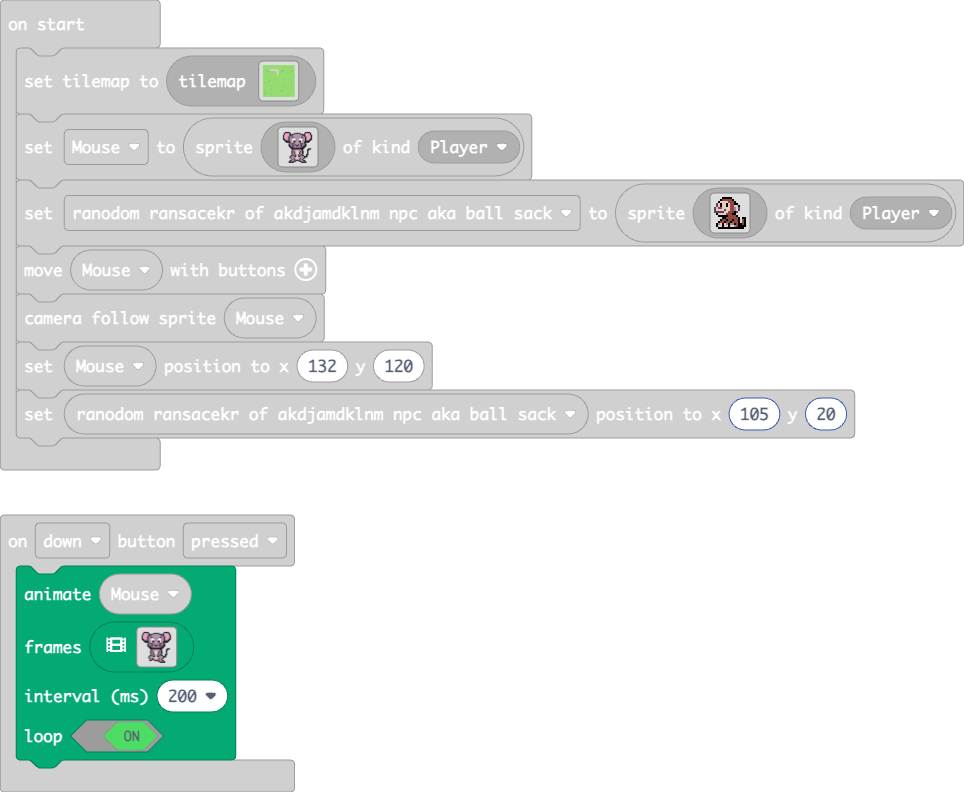
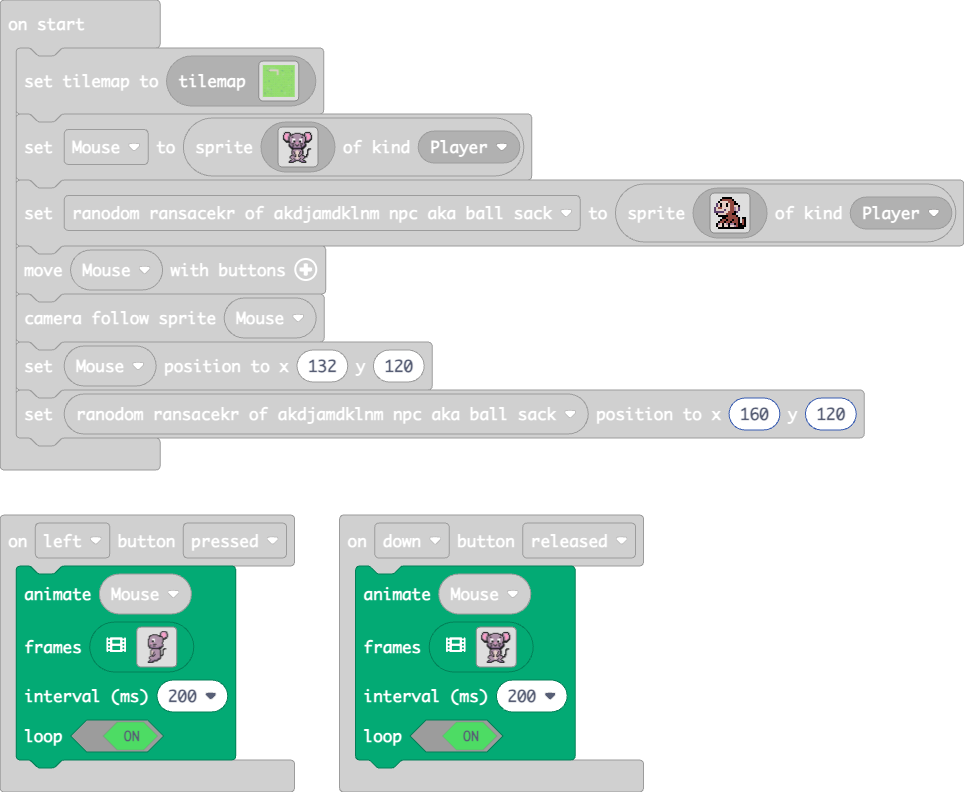
Update pxt.json, main.blocks, main.ts

diff --git a/main.ts b/main.ts
@@ -163,16 +163,16 @@ controller.down.onEvent(ControllerButtonEvent.Released, function () {
         .......fcbbbbbfbbfbbbbbcf.......
         .......ffcbffbbffbbffbcff.......
         ........ffccbbbbbbbbccff........
-        ..fff....fffcccccccccff.........
-        ....ff....ffffffffffff.....fff..
-        .....f.....fbbbbbbbbf.....ff....
-        .....f....fbbbbddbbbbf....f.....
-        .....f....fbfbddddbfbf....f.....
-        .....f....fbbfddddfbbf....f.....
-        .....f....fbbfddddfbbf....f.....
-        .....ff....fbbfddfbbf....ff.....
-        ......f..ffbfbfddfbfbff..f......
-        ......fffbbbbffddffbbbbfff......
+        .........fffcccccccccff.........
+        ..........ffffffffffff.....fff..
+        ...........fbbbbbbbbf.....ff....
+        ..........fbbbbddbbbbf....f.....
+        ..........fbfbddddbfbf....f.....
+        ..........fbbfddddfbbf....f.....
+        ..........fbbfddddfbbf....f.....
+        ...........fbbfddfbbf....ff.....
+        .........ffbfbfddfbfbff..f......
+        ........fbbbbffddffbbbbfff......
         ........fbbbbbddddbbbbbf........
         .........fbbbbbddbbfbbf.........
         ..........fbbbbbbbfbbf..........
@@ -204,24 +204,24 @@ controller.left.onEvent(ControllerButtonEvent.Pressed, function () {
         ......fbbbbbbbbbbbbbbbf.........
         ......fbb33bbbbbbbbbbbf.........
         ......fbbbbbffffbbbbbbbf........
-        ......fbbfbbbbbbbbbbbbbf........
-        ......fffbbbfffbbbbbbbff........
-        .......fbbbbbbbbbbbbbff.........
-        .......fffbbbbbbbbbfff..........
+        ......fbbfbbbbbbbbbbbbbc........
+        ......fffbbbfffbbbbbbcff........
+        .......fccbbbbbbbbbccff.........
+        .......fffcccccccccfff..........
         ..........fffffffffff...fff.....
         ..........fbbbbbbbbf...ff.......
         .........fbbbbbbbbbbf..f........
         .........fddbbbbbbbbf..f........
         .........fddbfbbbbbbf..f........
         .........fddfbbbbbbbf..f........
-        .........fddfbbbbbbbf..f........
-        .........fdfbbfbbbbbf.ff........
-        ..........ffbfbbbbbbfff.........
+        .........fddfbcbbbbbf..f........
+        .........fdfbcfbbbbbf.ff........
+        ..........ffcfbbbbbbfff.........
         ........ffbffbbbbbbbf...........
         .......fbbbbbbbbbbbbf...........
-        .......fbbbbbbbbbbbbf...........
-        ........fbbbbbbbbbff............
-        .........fbbbbbbbf..............
+        .......fbbbbbbbbbbccf...........
+        ........fbbbbbbbbcff............
+        .........fbbbccccf..............
         .......ffbbccffff...............
         ......fccccff...................
         ......ffffff....................
@@ -241,24 +241,24 @@ controller.left.onEvent(ControllerButtonEvent.Pressed, function () {
         .......fbbbbbbbbbbbbbbbf........
         .......fbb33bbbbbbbbbbbf........
         .......fbbbbbffffbbbbbbbf.......
-        .......fbbfbbbbbbbbbbbbbf.......
-        .......fffbbbfffbbbbbbbff.......
-        ........fbbbbbbbbbbbbbff........
-        ........fffbbbbbbbbbfff.........
+        .......fbbfbbbbbbbbbbbbcf.......
+        .......fffbbbfffbbbbbbcff.......
+        ........fccbbbbbbbbbccff........
+        ........fffcccccccccfff.........
         ...........fffffffffff...fff....
         ...........fbbbbbbbbf...ff......
         ..........fbbbbbbbbbbf..f.......
         ..........fddbbbbbbbbf..f.......
         ..........fddbfbbbbbbf..f.......
         ..........fddfbbbbbbbf..f.......
-        ..........fddfbbbbbbbf..f.......
-        ..........fdfbbfbbbbbf.ff.......
-        ...........ffbfbbbbbbfff........
+        ..........fddfbcbbbbbf..f.......
+        ..........fdfbcfbbbbbf.ff.......
+        ...........ffcfbbbbbbfff........
         .........ffbffbbbbbbbf..........
         ........fbbbbbbbbbbbbf..........
-        ........fbbbbbbbbbbbbf..........
+        ........fbbbbbbbbbbccf..........
         .........fbbbbbbbbbff...........
-        ..........fbbbbbbbbbf...........
+        ..........fbbbccccbbf...........
         ........ffbbccffffbbff..........
         .......fccccff....fbbcf.........
         .......ffffff......fbcf.........
@@ -840,4 +840,4 @@ let ranodom_ransacekr_of_akdjamdklnm_npc_aka_ball_sack = sprites.create(img`
 controller.moveSprite(Mouse)
 scene.cameraFollowSprite(Mouse)
 Mouse.setPosition(132, 120)
-ranodom_ransacekr_of_akdjamdklnm_npc_aka_ball_sack.setPosition(105, 20)
+ranodom_ransacekr_of_akdjamdklnm_npc_aka_ball_sack.setPosition(160, 120)
